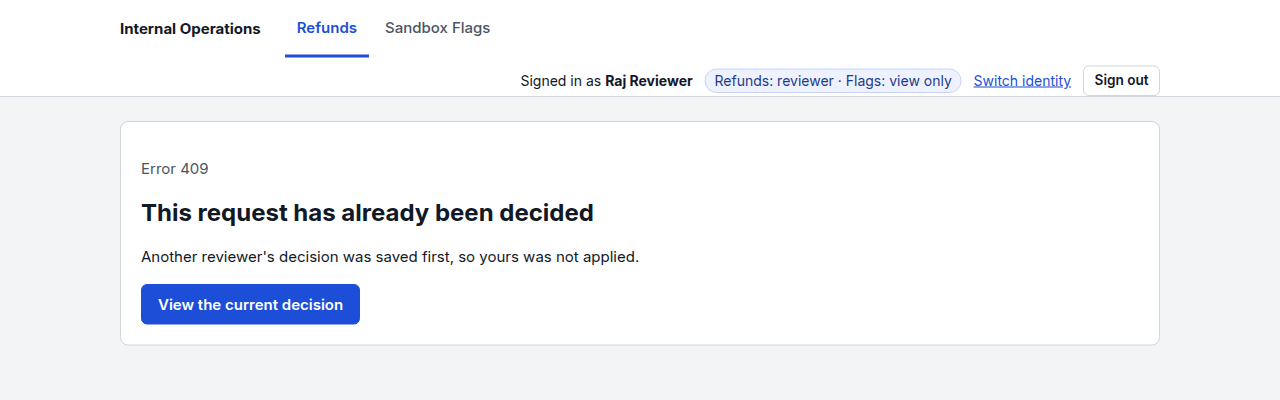
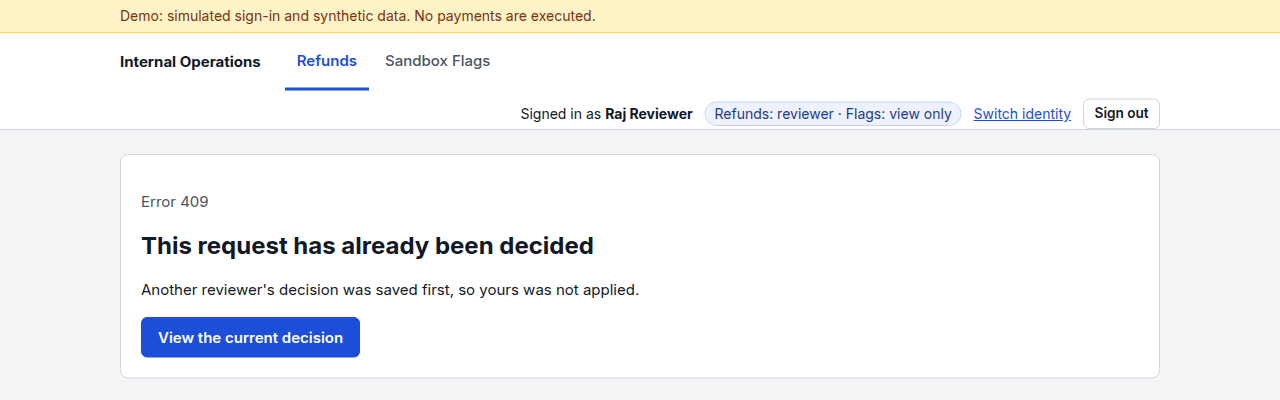
Trim app copy and seed data, rewrite README and build notes, retake screenshots

diff --git a/app/templates/detail.html b/app/templates/detail.html
@@ -5,7 +5,7 @@
 <div class="page-head"><div><h1>Refund request #{{ r.id }}</h1><p class="lead">{{ r.reason }}</p></div></div>
 <section class="panel" aria-label="Request details">
   <dl class="facts">
-    <div><dt>Amount</dt><dd class="big">{{ r.amount_cents|usd }}</dd><dd class="muted">{{ r.amount_cents }} cents</dd></div>
+    <div><dt>Amount</dt><dd class="big">{{ r.amount_cents|usd }}</dd></div>
     <div><dt>Status</dt><dd>{% include "_refund_badge.html" %}</dd></div>
     <div><dt>Requester</dt><dd>{{ r.submitter_name }}</dd><dd class="muted"><time datetime="{{ r.created_at }}">{{ r.created_at|ts }}</time></dd></div>
     {% if r.status != "pending" %}
@@ -27,9 +27,8 @@
       {% if errors.reason %}<div class="field-error" id="reason-err">{{ errors.reason }}</div>{% endif %}
       {% if errors.decision %}<div class="field-error">{{ errors.decision }}</div>{% endif %}
     </div>
-    <p class="hint">Approving records the decision only; no payment is executed.</p>
     <div class="actions">
-      <button class="btn btn-primary" type="submit" name="decision" value="approve">✓ Approve (no payment)</button>
+      <button class="btn btn-primary" type="submit" name="decision" value="approve">Approve</button>
       <button class="btn btn-danger" type="submit" name="decision" value="reject">✕ Reject request</button>
     </div>
   </form>

diff --git a/app/templates/login.html b/app/templates/login.html
@@ -1,8 +1,8 @@
 {% extends "base.html" %}
 {% block title %}Choose demo identity{% endblock %}
 {% block content %}
-<div class="page-head"><div><h1>Choose a demo identity</h1><p class="lead"><strong>{{ demo_banner }}</strong></p></div></div>
-<p class="notice notice-info">Anyone using this demo can impersonate any seeded user. It demonstrates authorization rules under a simulated identity; it is not secure authentication. Roles and grants are read from the server-side database, never from the browser.</p>
+<div class="page-head"><div><h1>Choose a demo identity</h1></div></div>
+<p class="notice notice-info">Pick any user to see how permissions differ. Roles are loaded from the database, not the browser.</p>
 <section class="panel">
 <form method="post" action="/login">
   <input type="hidden" name="csrf_token" value="{{ csrf_token }}">

diff --git a/app/templates/new.html b/app/templates/new.html
@@ -2,7 +2,7 @@
 {% block title %}New refund request{% endblock %}
 {% block content %}
 <a class="back" href="/requests">&larr; All refund requests</a>
-<div class="page-head"><div><h1>New refund request</h1><p class="lead">A reviewer other than you will approve or reject it. No payment is executed.</p></div></div>
+<div class="page-head"><div><h1>New refund request</h1><p class="lead">A reviewer other than you will approve or reject it.</p></div></div>
 <section class="panel">
 {% if errors %}<p class="notice notice-error" role="alert">Please correct the errors below.</p>{% endif %}
 <form method="post" action="/requests">

diff --git a/app/static/app.css b/app/static/app.css
@@ -9,6 +9,7 @@ a { color: var(--accent); }
 :focus-visible { outline: 3px solid var(--accent); outline-offset: 2px; }
 .container { max-width: 1080px; margin: 0 auto; padding: 0 1.25rem; }
 
+.demo-banner { background: #fef3c7; color: #78350f; border-bottom: 1px solid #fcd34d; font-size: .875rem; padding: .35rem 0; }
 .topbar { background: var(--panel); border-bottom: 1px solid var(--border); }
 .topbar .container { display: flex; flex-wrap: wrap; align-items: center; gap: .5rem 1.5rem; min-height: 56px; }
 .brand { font-weight: 700; color: var(--text); text-decoration: none; }

diff --git a/app/templates/queue.html b/app/templates/queue.html
@@ -8,7 +8,6 @@
   </div>
   {% if can_submit %}<a class="btn btn-primary" href="/requests/new">+ New refund request</a>{% endif %}
 </div>
-<p class="notice notice-info">Approving a request only records the decision. <strong>No payment is executed.</strong></p>
 <ul class="pills" aria-label="Filter by status">
   {% for s in ("all",) + statuses %}
   <li><a href="/requests?status={{ s }}" {% if s == status %}aria-current="page"{% endif %}>{{ s|capitalize }}</a></li>

diff --git a/app/templates/base.html b/app/templates/base.html
@@ -7,6 +7,7 @@
   <link rel="stylesheet" href="/static/app.css">
 </head>
 <body>
+  <div class="demo-banner" role="note"><div class="container">Demo: simulated sign-in and synthetic data. No payments are executed.</div></div>
   <header class="topbar">
     <div class="container">
       <a class="brand" href="/requests">Internal Operations</a>

diff --git a/app/refunds.py b/app/refunds.py
@@ -153,7 +153,7 @@ def seed_demo_requests(conn: sqlite3.Connection) -> None:
     if conn.execute("SELECT COUNT(*) FROM refund_requests").fetchone()[0]:
         return
     users = {u["username"]: u for u in list_users(conn)}
-    create_request(conn, users["olivia"], "49.99", "Synthetic: duplicate charge on demo order DEMO-1001")
-    create_request(conn, users["olivia"], "1250.00", "Synthetic: service outage credit for demo account DEMO-2002")
-    rid = create_request(conn, users["rita"], "15.00", "Synthetic: shipping fee refund for demo order DEMO-3003")
-    decide(conn, users["raj"], rid, "approve", "Synthetic: verified against demo shipping log")
+    create_request(conn, users["olivia"], "49.99", "Duplicate charge on demo order DEMO-1001")
+    create_request(conn, users["olivia"], "1250.00", "Service outage credit for demo account DEMO-2002")
+    rid = create_request(conn, users["rita"], "15.00", "Shipping fee refund for demo order DEMO-3003")
+    decide(conn, users["raj"], rid, "approve", "Verified against demo shipping log")

diff --git a/app/db.py b/app/db.py
@@ -93,9 +93,9 @@ DEMO_USERS = [
 DEMO_GRANTS = [("fiona", "flags.edit")]
 
 DEMO_FLAGS = [
-    ("new-queue-layout", "New queue layout", "Synthetic: show the redesigned request queue.", 0),
-    ("csv-export", "CSV export", "Synthetic: allow exporting the queue as CSV.", 1),
-    ("reviewer-reminders", "Reviewer reminders", "Synthetic: remind reviewers about stale pending requests.", 0),
+    ("new-queue-layout", "New queue layout", "Show the redesigned request queue.", 0),
+    ("csv-export", "CSV export", "Allow exporting the queue as CSV.", 1),
+    ("reviewer-reminders", "Reviewer reminders", "Remind reviewers about stale pending requests.", 0),
 ]
 
 

diff --git a/tests/test_validation.py b/tests/test_validation.py
@@ -41,8 +41,8 @@ def test_approved_label_shown(as_user):
     rid = created_id(as_user("olivia").submit())
     raj = as_user("raj")
     assert raj.decide(rid, "approve").status_code == 303
-    assert "Approved (payment not executed)" in raj.get(f"/requests/{rid}").text
-    assert "Approved (payment not executed)" in raj.get("/requests?status=approved").text
+    assert 'status-approved">Approved</span>' in raj.get(f"/requests/{rid}").text
+    assert 'status-approved">Approved</span>' in raj.get("/requests?status=approved").text
 
 
 def test_status_filter(as_user):

diff --git a/app/main.py b/app/main.py
@@ -13,7 +13,7 @@ from .errors import NotFound, ServiceError, ValidationFailed
 from .db import DEFAULT_BUSY_TIMEOUT_MS, DatabaseBusy, connect, init_db
 
 DEMO_BANNER = "Demo identity. Not production authentication."
-APPROVED_LABEL = "Approved (payment not executed)"
+APPROVED_LABEL = "Approved"
 ERROR_TITLES = {
     401: "Choose a demo identity first",
     403: "You don't have permission to do that",

diff --git a/tests/test_permissions.py b/tests/test_permissions.py
@@ -19,7 +19,7 @@ def test_fail_closed_without_demo_mode(tmp_path):
 
 
 def test_login_page_labels_demo_identity(as_user):
-    assert "Demo identity. Not production authentication." in as_user().get("/login").text
+    assert "Demo: simulated sign-in and synthetic data. No payments are executed." in as_user().get("/login").text
 
 
 def test_unauthenticated_cannot_view_or_mutate(as_user, conn):

diff --git a/docs/build-notes.md b/docs/build-notes.md
@@ -1,7 +1,5 @@
 # Build notes
 
-Supporting detail for the [README](../README.md): how the prototype was built, what was verified, and technical detail that is too granular for the README.
-
 ## Timeline and effort
 
 - Devin build time: 23 minutes from start to the last application code push, across 3 review rounds.
@@ -9,134 +7,14 @@ Supporting detail for the [README](../README.md): how the prototype was built, w
 
 These numbers are from one session and are not an estimate for other apps.
 
-### Development flow
+## Tests
 
-```mermaid
-flowchart LR
-  Req["Written requirements"] --> Devin["Devin session<br/>plan → code → tests → browser check"]
-  Devin --> PR["GitHub PR"]
-  PR --> Review["Human review + local test run"]
-  Review -->|changes requested| Devin
-```
-
-CI: `.github/workflows/tests.yml` runs `python -m pytest -q` on Python 3.10 for pull requests and pushes to `main`. Tests use a temporary SQLite file per test and a fixed test session secret; no credentials or deployment.
-
-## Verification history
-
-### Tests
-
-`python -m pytest -q` passed 84 tests locally and in a clean clone. The refund-only version had 35 tests.
+`python -m pytest -q` runs 84 tests. Each test uses a temporary SQLite database.
 
 | File | Covers |
 |---|---|
-| `test_permissions.py` | role rules, 503 without demo mode, client role/actor ignored, CSRF on every form, GET never mutates, 404s |
-| `test_validation.py` | invalid dollar amounts and blank reasons rejected with no rows written; trimming; labels |
-| `test_decisions_and_audit.py` | self-approval, sequential + threaded concurrent conflicts, audit consistency, audit-failure rollback, busy-timeout 503, DB constraints |
-| `test_flags.py` | per-tool permission labels; stale-form 409 page links to the flag; everyone views; only Fiona edits (403 for others, 401 anonymous); Fiona cannot submit or decide refunds; reason required; CSRF; GET never mutates; stale form → 409; 404; audit-failure rollback; audit target CHECK |
-| `test_money_and_migration.py` | exact dollar→cents conversion and rejects; refund-only audit table migrated with history preserved, idempotent |
-
-### Reproducibility
-
-**Reproducibility check:** a fresh `git clone` of the PR #1 branch into an empty directory, `python3 -m venv .venv`, `pip install -r requirements-dev.txt`, `python -m pytest -q` (84 passed), then `uvicorn` with `DEMO_MODE=true`, a generated `SESSION_SECRET` and a new `DATABASE_PATH`: `/login` 200, `/static/app.css` 200, anonymous `/requests` 303 to login, and without `DEMO_MODE` → 503. Checked on Ubuntu with Python 3.10.12.
-
-### Browser check
-
-**Browser check** (local Chromium against the running app): submitted `12.50` (stored 1250 cents) after `12.505` was rejected; Fiona saw no decision buttons and got 403 on the submit page; Rita approved and the queue showed "Approved (payment not executed)"; Rita saw Sandbox Flags read-only; Fiona disabled a flag with a reason and the audit row appeared; a second Fiona tab with the older form got 409.
-
-### CI
-
-The `pytest` GitHub Actions check passed on the PR #1 commits `cc9bde0`, `ba21537` and `9c778e7`. The last of these is the head that was merged.
-
-The `pytest` run on `main` passed after each merge: `8e947df` (PR #1) and `b6fcf22` (PR #2).
-
-## Technical detail
-
-### File layout
-
-```
-app/main.py        routes for both tools, demo identity, session + CSRF, error handling, nav context
-app/db.py          connection setup, schema, audit migration, seeds, transaction helper
-app/identity.py    server-side user and grant lookup
-app/audit.py       shared audit insert + history query
-app/errors.py      shared ServiceError hierarchy (status codes)
-app/validation.py  shared reason validation
-app/refunds.py     refund-only rules
-app/flags.py       flag-only rules
-app/templates/     base (Internal Operations nav), login, error, refund pages, flag pages
-tests/             pytest suite
-```
-
-### Rules enforced on the server
-
-- Refund amount is entered in dollars (`12.50`, `12.5`, `7`) and converted to integer cents with string/integer arithmetic only (no `float`, no binary floating point). Rejected: more than two decimals, `12.`, `.5`, signs, `$`, commas, exponents, zero, over $1,000,000.00. Stored as `amount_cents` INTEGER.
-- Reasons (refund submissions, decisions, flag changes) are trimmed, non-blank, ≤ 1000 chars.
-- Only reviewers decide, never on their own requests; a decision needs a reason and only changes a `pending` request.
-- Flag changes need the `flags.edit` grant, a reason, and the flag `version` the form was rendered with; a mismatched version is **409** (stale form).
-- Responses: **404** nonexistent request or flag, **403** forbidden action or bad CSRF token, **409** already decided / stale flag form, **422** validation error, **401** no identity on a POST, **503** + `Retry-After: 1` if the SQLite busy timeout (2 s) expires.
-- All state-changing actions (submit, decide, change flag, choose identity, sign out) are `POST` forms with a per-session CSRF token (Starlette `SessionMiddleware` signed cookie + synchronizer token, compared with `secrets.compare_digest`). No `GET` request mutates anything.
-
-### Schema
-
-- `users(id, username UNIQUE, display_name, role CHECK IN (operator, reviewer, viewer))`
-- `tool_permissions(user_id FK, permission CHECK IN ('flags.edit'), PK(user_id, permission))`
-- `refund_requests(id, amount_cents CHECK integer > 0, reason CHECK trimmed non-blank, status CHECK IN (pending, approved, rejected), submitted_by FK, created_at, decided_by FK, decision_reason, decided_at)`
-  - CHECK: pending ⇒ no decision fields; approved/rejected ⇒ reviewer, reason and timestamp all present.
-  - CHECK: `decided_by <> submitted_by`.
-- `feature_flags(id, key UNIQUE, name, description, enabled CHECK IN (0,1), version ≥ 1, updated_at, updated_by FK)`
-- `audit_events(id, request_id FK NULL, flag_id FK NULL, actor_id FK, action, from_status, to_status, reason, created_at)`
-  - CHECK: exactly one of `request_id` / `flag_id` is set, and the action matches the tool (`created/approved/rejected` for refunds, `flag_enabled/flag_disabled` for flags).
-
-Foreign keys are enabled on every connection.
-
-### Audit schema change and tradeoff
-
-The refund-only `audit_events` had `request_id NOT NULL`. The change: make `request_id` nullable, add nullable `flag_id`, and add a CHECK that exactly one target is set. SQLite cannot relax `NOT NULL` in place, so `init_db` rebuilds the table once (create new → copy all rows with `flag_id = NULL` → drop → rename) in one transaction, verifies the row count and `PRAGMA foreign_key_check`, and rolls back if either fails. Existing ids and history are kept. This was checked on a test database and on the existing local demo database (7 refund audit rows before and after).
-
-- **Why this:** one audit table and one `audit.record()` / `audit.history()` for both tools, with real foreign keys to each target table.
-- **Cost:** this keeps real relational references for these two tools, but each additional audited resource type needs a schema change (a new nullable FK column, a wider CHECK, and a table rebuild in SQLite). It can support more tools; it just requires a migration for each one. Alternatives: a separate audit table per tool (no migration, but duplicated audit code), or a generic `target_type` + `target_id` pair (scales, but loses foreign-key enforcement). For two tools, the nullable-FK version was the smallest change that kept integrity checks.
-
-### Audit history
-
-The application only ever inserts into `audit_events`; it has no code path that updates or deletes audit rows. This is application behavior only — the table is **not** immutable or tamper-resistant against anyone with direct access to the SQLite file.
-
-### What Sandbox Flags reused vs. newly implemented
-
-**Reused unchanged or with small generalization:**
-- Demo identity picker, session cookie, `DEMO_MODE` fail-closed middleware, sign-in/out.
-- CSRF synchronizer token and `checked_form()`; `require_user()`.
-- `db.connect()` (foreign keys, busy timeout), `transaction()` (`BEGIN IMMEDIATE`), `DatabaseBusy` → 503 handler.
-- Audit insert/history (moved from refund code into `app/audit.py`, generalized with a `flag_id` target).
-- Error classes and their 403/404/409/422 handler (moved to `app/errors.py`).
-- Reason validation (moved to `app/validation.py`).
-- Layout, banners, error page, `ts` timestamp filter, badge styles.
-- Test fixtures: `app`, `conn`, `users`, `as_user`, `UserClient` (no changes needed for flags).
-
-**New for Sandbox Flags:**
-- `feature_flags` and `tool_permissions` tables, seeds (3 flags, Fiona + `flags.edit`), audit table migration.
-- `app/identity.py` grant lookup (`has_permission`).
-- `app/flags.py`: permission check, enable/disable, version-checked update + audit in one transaction.
-- Three routes (`GET /flags`, `GET /flags/{id}`, `POST /flags/{id}`) and two templates.
-- `tests/test_flags.py`, `tests/test_money_and_migration.py`.
-
-**Shared changes made in the same pass:** "Internal Operations" navigation, status badges, readable timestamps, and dollar-amount refund input.
-
-## Additional limitations
-
-- Flag routes live in `app/main.py` next to refund routes. A third tool would justify splitting routes into separate modules.
-- CI runs tests only, with no lint, coverage or deployment.
-- No pagination, notifications, editing or withdrawal of requests, or UI for creating and deleting flags.
-- Sandbox Flags has no SDK, targeting or rollout percentages, and nothing reads the flags.
-
-## Production responsibilities still owned by the company
-
-- Real authentication (SSO), authorization model and access reviews.
-- Hosting, network exposure, TLS, secret management (`SESSION_SECRET`), backups and disaster recovery.
-- Database choice, migrations process, data retention, and tamper-evident audit storage.
-- Payment/ledger integration and financial controls, if any are ever connected.
-- Security review, compliance sign-off, monitoring, incident response and on-call.
-- Code review and ownership of everything Devin produces; CI and release process.
-
-## Simulated vs. out of scope
-
-- **Simulated:** login (identity picker, impersonation allowed), users, requests and flags (synthetic), approval (status change only, no money moves), flags (stored values only, nothing reads them).
-- **Out of scope:** production SSO/authentication, real payment/processor/ledger integrations, public deployment, multi-instance concurrency (single SQLite file), microservices, a generic workflow builder, feature-flag SDKs/targeting/rollouts, notifications, editing/withdrawing requests, pagination.
+| `test_permissions.py` | Role rules, 503 without demo mode, ignored client role and actor, CSRF on every form, GET never mutates, 404s |
+| `test_validation.py` | Invalid amounts and blank reasons rejected with no rows written, trimming, status labels |
+| `test_decisions_and_audit.py` | Self-approval, sequential and threaded concurrent conflicts, audit consistency, audit-failure rollback, busy-timeout 503, database constraints |
+| `test_flags.py` | Permission labels, everyone views, only Fiona edits, Fiona cannot submit or decide refunds, reason required, CSRF, stale form 409, audit-failure rollback, audit target CHECK |
+| `test_money_and_migration.py` | Exact dollar to cents conversion, rejected formats, refund-only audit table migrated with history preserved |
